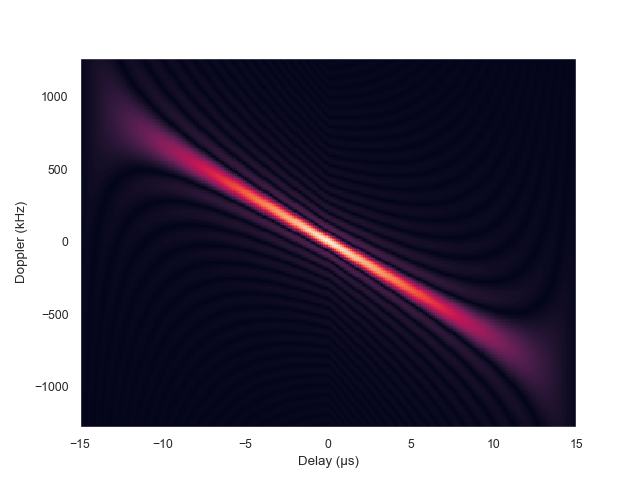
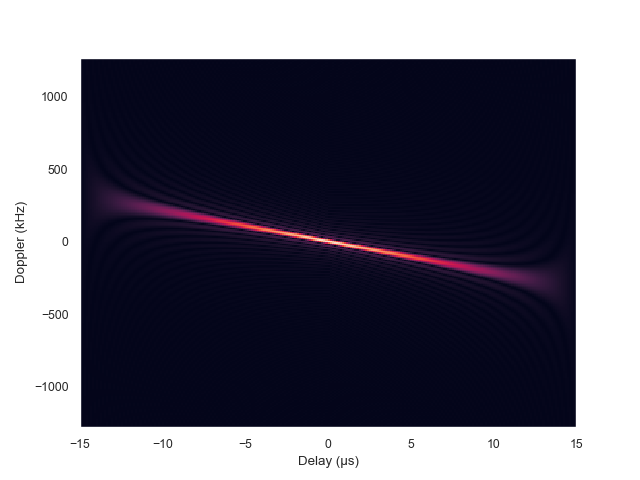
Change doppler shift to shift after fft

Changed region(s): [[0.125, 0.1562, 0.875, 0.875]]

diff --git a/ambiguity_functions.py b/ambiguity_functions.py
@@ -5,30 +5,34 @@ import matplotlib.pyplot as plt
 import seaborn as sns
 
 
-def ambgfun(x, fs, prf):
+def ambgfun(x, fs):
     """Calculate the ambiguity function of a radar waveform.
 
     This function calculates the monostatic ambiguity function of the radar
     waveform x, using FFTs to calculate the matched filter output.
     """
     ts = 1 / fs   # Sampling interval (seconds)
-    # tx = 1 / prf  # Pulse repitition interval (seconds)
 
-    # t = np.arange(0, tx, step=ts)
-    # x = np.pad(x, (0, np.size(t) - np.size(x)))
     nx = np.size(x)
     t = np.arange(0, nx) * ts
     delay = np.arange(1-nx, nx) * ts
     n = np.size(delay)
+    nfft = int(2**(np.ceil(np.log2(n))))
+    m = nfft
+    dshifts = np.arange(-m/2, m/2, dtype=int)
+    doppler = dshifts * prf
 
-    m = int(2**(np.ceil(np.log2(n))))
-    doppler = np.arange(-m/2, m/2) * prf
-
-    X = np.fft.fft(x[None, :] * np.exp(1j * 2 * np.pi *
-                                       doppler[..., None] * t[None, :]),
-                   n=n, axis=1)
-    H = np.fft.fft(np.conj(np.flip(x)), n=n)
-    ambig = np.fft.ifft(X * H[None, :])
+    X0 = np.fft.fft(x, n=nfft)
+    X = np.zeros((m, nfft), dtype=complex)
+    for i in range(1, m):
+        X[i, :] = np.roll(X0, dshifts[i])
+    H = np.fft.fft(np.conj(np.flip(x)), n=nfft)
+    # X = np.fft.fft(x[None, :] * np.exp(1j * 2 * np.pi *
+    #                                    doppler[..., None] * t[None, :]),
+    #                n=n, axis=1)
+    # H = np.fft.fft(np.conj(np.flip(x)), n=n)
+    ambig = np.fft.ifft(X * H[None, :], axis=1)
+    ambig = ambig[:, 0:n]
     return ambig, delay, doppler
 
 
@@ -74,7 +78,7 @@ prf = 10000
 t = np.arange(0, tx, step=ts)
 
 x = np.ones(np.shape(t))
-ambig, delay, doppler = ambgfun(x, fs, prf)
+ambig, delay, doppler = ambgfun(x, fs)
 
 plt.figure()
 plt.pcolormesh(delay / 1e-6, doppler / 1e3, np.abs(ambig))
@@ -110,7 +114,7 @@ t = np.arange(0, tx, step=ts)
 chirpyness = bw / tx
 theta = - np.pi * bw * t + np.pi * chirpyness * t**2
 x = np.exp(1j * theta)
-ambig, delay, doppler = ambgfun(x, fs, prf)
+ambig, delay, doppler = ambgfun(x, fs)
 
 plt.figure()
 plt.pcolormesh(delay / 1e-6, doppler / 1e3, np.abs(ambig))
@@ -141,7 +145,7 @@ x = np.zeros((117,))
 for i in range(np.size(x)):
     x[i] = code[i // 9]
 fs = 8e6
-ambig, delay, doppler = ambgfun(x, fs, prf)
+ambig, delay, doppler = ambgfun(x, fs)
 
 plt.figure()
 plt.plot(x)

diff --git a/matlab_ambgfun.m b/matlab_ambgfun.m
@@ -1,9 +1,28 @@
-fs = 1e6;
-bw = 5e5;
-prf = 5e3;
-tx = 5e-5;
-% waveform = phased.RectangularWaveform('SampleRate',fs,...
-%     'PRF',prf,'PulseWidth',tx);
+clear; close all; clc;
+
+%% Rectangular Waveform
+fs = 6.4e6;
+ts = 1/fs;
+tx = 1.0000e-05;
+prf = 1/tx;
+waveform = phased.RectangularWaveform('SampleRate',fs,...
+    'PRF',prf,'PulseWidth',tx);
+x = waveform();
+prf = waveform.PRF;
+fs = waveform.SampleRate;
+[afmag,delay,doppler] = ambgfun(x,waveform.SampleRate,prf);
+
+figure()
+imagesc(delay,doppler,afmag)
+xlabel('Delay (seconds)')
+ylabel('Doppler Shift (hertz)')
+
+%% LFM Waveform
+fs = 8e6;
+bw = 1e6;
+ts = 1/fs;
+tx = 15/bw;
+prf = 1/(tx + 1/fs);
 waveform = phased.LinearFMWaveform('SampleRate',fs,...
     'SweepBandwidth',bw,'PRF',prf,'PulseWidth',tx);
 x = waveform();
@@ -15,3 +34,5 @@ figure()
 imagesc(delay,doppler,afmag)
 xlabel('Delay (seconds)')
 ylabel('Doppler Shift (hertz)')
+
+%% Barker Waveform
